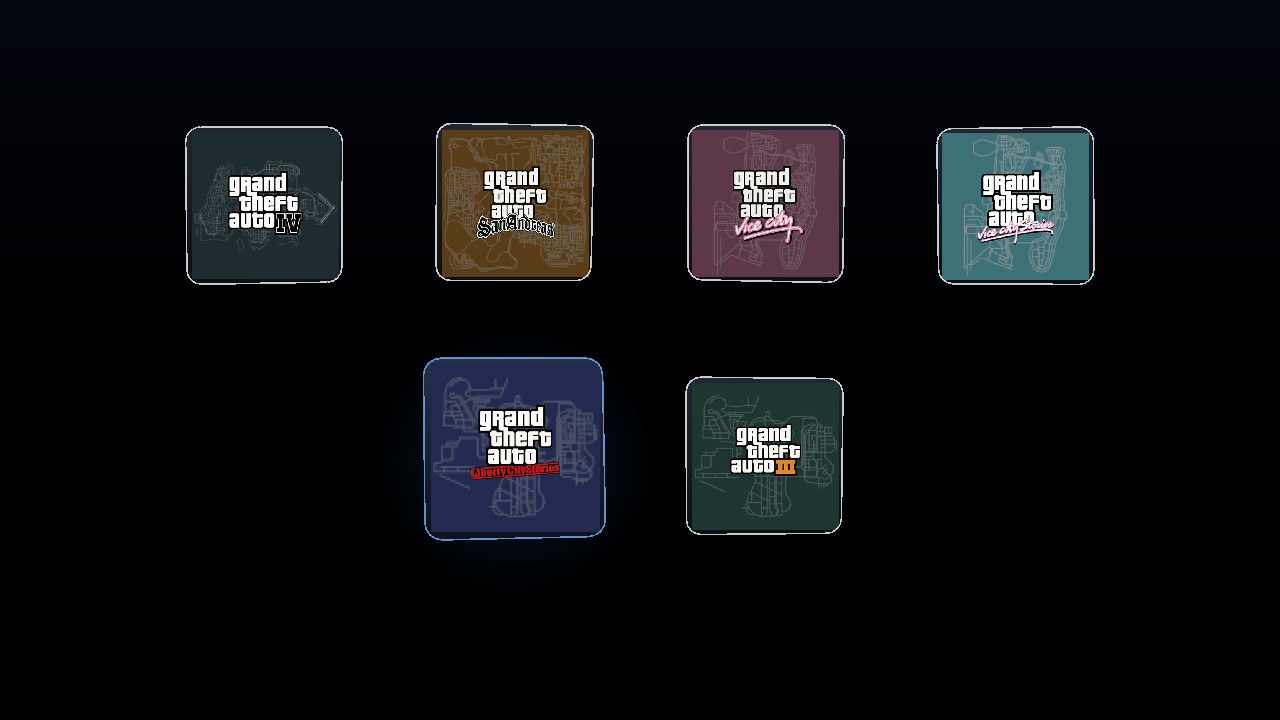
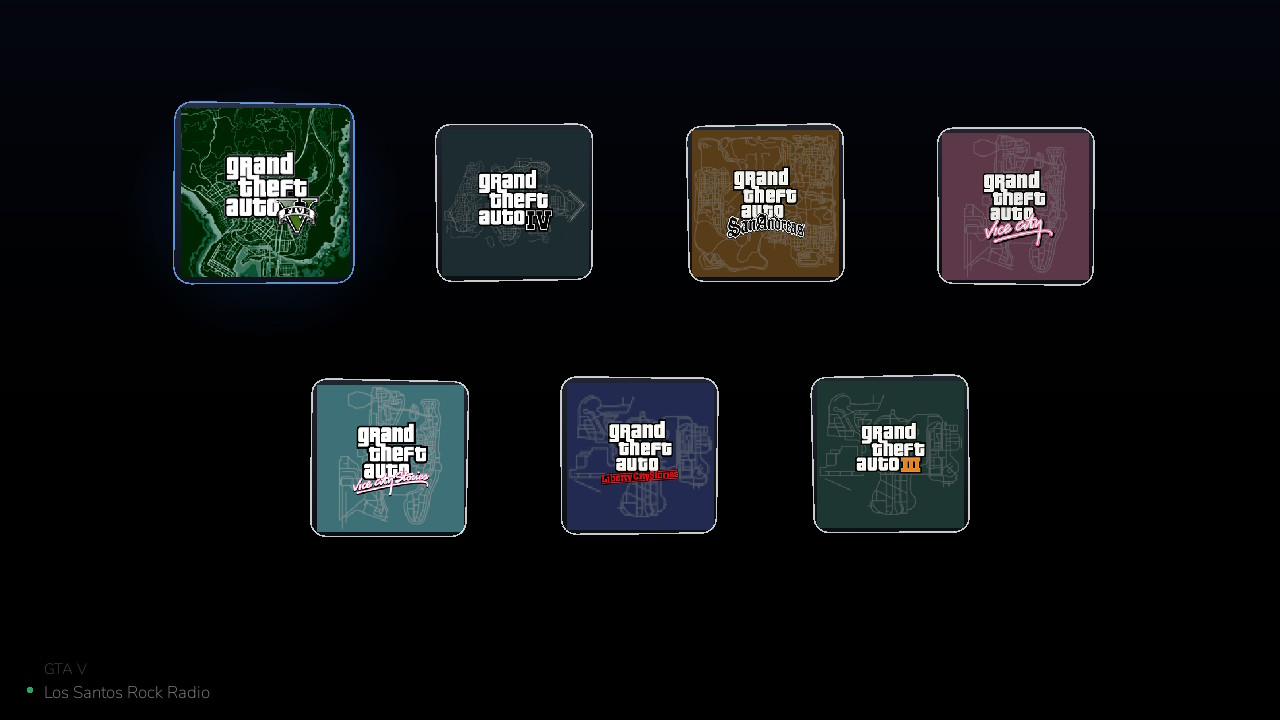
Update documentation and README for 2.1

diff --git a/README.md b/README.md
@@ -15,11 +15,27 @@ Every station is a new destination.
 
 ---
 
+## GTA Radio
+
+RadioNX includes a dedicated GTA Radio experience featuring radio stations from the Grand Theft Auto series.
+
+![GTA Radio](docs/gtaradio.jpg)
+
+### GTA IV Radio
+
+![GTA IV Radio](docs/gta4radio.jpg)
+
+### GTA V Radio
+
+![GTA V Radio](docs/gta5radio.jpg)
+
+---
+
 ## Features
 
 - **Interactive 3D Globe** — Explore the world, rotate the globe and discover radio stations by location.
 - **Worldwide Radio** — Listen to radio stations from cities and countries around the globe.
-- **GTA Radio** — Listen to radio stations from Grand Theft Auto games using streams from GTARadio.net.
+- **GTA Radio** — Listen to radio stations from Grand Theft Auto games, including the separate GTA V integration.
 - **Station Search** — Find radio stations and cities using the built-in search.
 - **Random Discovery** — Let RadioNX take you somewhere unexpected with a random station.
 - **World Passport** — Your personal listening passport with travel records, statistics and collectible country stamps.
@@ -61,12 +77,6 @@ Choose a city, browse its available radio stations and tune in to local broadcas
 
 ![Radio Station Selection](docs/radio-stations.jpg)
 
-### GTA Radio
-
-Explore and listen to radio stations from the Grand Theft Auto series.
-
-![GTA Radio](docs/gtaradio.jpg)
-
 ### City Postcards
 
 Discover places around the world through visual city postcards.
@@ -93,7 +103,8 @@ Suggestions, feedback and bug reports are welcome through [GitHub Issues](https:
 
 ## Credits & Third-Party Sources
 
-- **[GTARadio.net](https://gtaradio.net)** — Source used for GTA Radio streams in RadioNX.
+- **[GTARadio.net](https://gtaradio.net)** — Source for GTA IV, GTA San Andreas, GTA Vice City, GTA Vice City Stories and other GTA radio streams used in RadioNX, excluding GTA V.
+- **GTA V Radio** — The RadioNX GTA V radio integration is original work by **Muveeer** and is not sourced from GTARadio.net.
 
 RadioNX is an independent project and is not affiliated with or endorsed by GTARadio.net, Rockstar Games or Take-Two Interactive.
 
